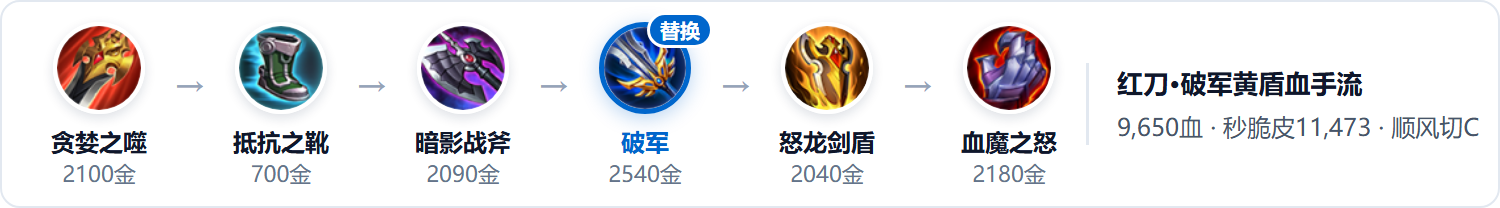
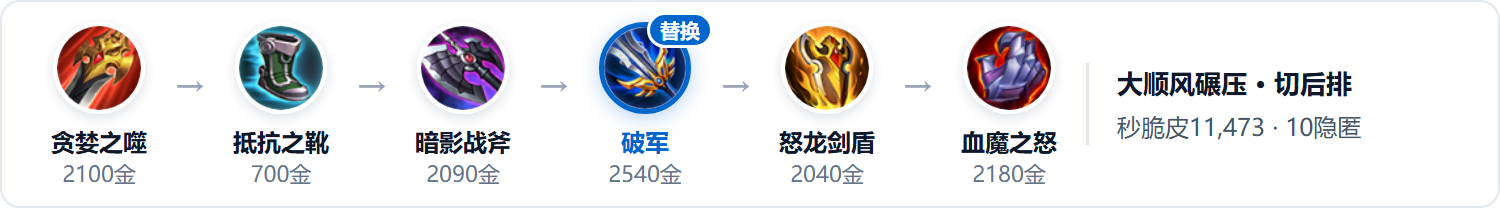
docs(guides): humanize Zhaoyun S45 guide and update dragon skin cover

Changed region(s): [[0.736, 0.5481, 1.0, 0.6923], [0.736, 0.3462, 0.92, 0.4615]]

diff --git a/docs/guides/zhaoyun_jungle_guide.md b/docs/guides/zhaoyun_jungle_guide.md
@@ -1,111 +1,113 @@
-# 王者荣耀 S45 赛季打野赵云 · 黄盾前置血手跨档闭环与六套动态出装（完整真值数据版）
+# 王者荣耀S45赵云11.17更新攻略：调整影响、出装优先级与各阵容配装
 
-> **版本基线**：S45 正式服 11.17 调整同步版（`config/items_ground_truth.json` / `config/hero_skills_data.json` / `config/hero_base_stats.py` / `config/hero_arcana_data.py` 本地真值核验）
-> **核心结论**：11 月 17 日正式服将赵云一技能冷却缩至 7.5~6 秒、二技能回血调为 1% 额外生命、三技能伤害微调至 450~900（+135%额外物攻）。二技能回血下调后，黑切后第 4 件提前做出黄盾可借重创被动将单组野怪回血翻倍至 1,110 并加速二档攒永久白盾，第 5 件连出血手即可在龙团提前解锁扣血跨档送一技能闭环；而 0 生命的冰脉不再全对局硬绑，仅作让蓝顺风抓单分支。
+> **版本基线**：S45 正式服 11.17 调整同步版（基于 `config/` 本地真值核验）
+> **核心思路**：11 月 17 日正式服对赵云做了三处调整：1 技能冷却缩到 7.5~6 秒更好留人，2 技能回血改成 70~140（+1% 额外生命），3 技能伤害微调到 450~900（+135% 额外物攻）。改完之后，纯输出装刷野回血和攒被动白盾会变慢，做完黑切优先补黄盾（怒龙剑盾）撑血量和续航，再配血手（血魔之怒）半血打反手，最后按对面阵容选择爆裂、冰甲、永夜或碎星锤最顺手。
 
-![赵云 S45 出装攻略头图](assets/zhaoyun_cover_16x9.jpg)
-
----
-
-## PART 01 · 裸装基线与 11.17 调整后龙鸣三档、惊雷减冷却真值
-
-**Lv1→15 裸装面板、5%/10%/20% 三档免伤跨档送位移、二技能 1% 额外生命回血与空大返 CD**
-
-- 裸装基线与被动【龙鸣】三档免伤规则：赵云 Lv1→Lv15 裸装生命 3,468→7,150，物攻 175→379，物防 150→395，法防 75→166，基础移速 385（刺客档），攻速成长 +1.5%/级。生命处于 >70% / 40%~70% / ≤40% 分别获得 5% / 10% / 20% 免伤；每当生命档位跨越时立即额外存储一次一技能，且溢出当前档位上限的回复量会转化为永久护盾。
-- 一技能【惊雷之龙】（CD 7.5s→6s）与二技能【破云之龙】（CD 6s→5s）调整影响：11 月 17 日更新将一技能冷却缩短 0.5 秒，冲锋造成 350~700（+120%额外物攻）物伤，强化普攻额外造成 120~240（+40%额外物攻）物伤并附带 25%~50% 持续 2 秒减速，自身黏人留人能力明显增强；二技能连刺 5 枪每枪造成 210~420（+65%额外物攻）物伤，回血由 1.5% 下调为 70~140（+1%额外生命，每枪递减 8%），纯靠自身刺野续航与攒白盾变慢，亟需装备被动接力续航。
-- 三技能【天翔之龙】（CD 20s / 18s / 16s）与血手跨档伏笔：跃击造成 450 / 675 / 900（+135%额外物攻）物伤、中心 1 秒击飞并挂 5 秒感电，未命中英雄直接返还 50% 冷却。血手主动扣除 30% 当前生命换取 40% 最大生命真实白盾，在 55%~65% 血线按下即可主动压进 ≤40% 最高 20% 免伤档位白拿一发一技能，近四千点白盾全程享受双抗与 20% 免伤折算。
+![赵云 11.17 更新出装攻略头图](assets/zhaoyun_cover_16x9.jpg)
 
 ---
 
-## PART 02 · 黄盾前置第 4 件逻辑与冰脉去绑定实测对比
+## PART 01 · 先看 11.17 调整对赵云的影响
 
-**为什么黑切后提前出黄盾接血手，以及为什么冰脉不再是全对局必出装**
+**1 技能更粘人，但 2 技能回血和 3 技能伤害微调后更吃血量与拉扯**
 
-- 黄盾提前到第 4 件（但不提前到第 3 件）的真值账本：第 3 件若跳过黑切裸出黄盾（3,440 金），仅靠百穿铭文 100 物穿，Lv9 全套秒脆皮跌至 4,170（低于 4,800 脆皮基准血线，比同预算黑切少打 1,089 点），3 秒刷野伤害（5,081）也慢于黑切（5,433）。而在黑切之后第 4 件立刻做黄盾（Lv11 共 5,530 金），既有 254.3 物穿保住 5,955 脆皮斩杀线，又能靠黄盾【重创】（每 2.5 秒对野怪/兵线造成 7% 最大生命物伤并回 50% 血）把单组野怪总回血从 525 翻倍至 1,110，彻底填平二技能回血下调缺口，路过野区两枪即可攒出二档永久白盾；第 5 件连出血手还能在 10~12 分钟龙团提前一格完成跨档闭环。
-- 为什么冰脉不再全对局硬绑（退居 20% 让蓝顺风抓单分支）：① 正式服冰脉（+300物防 +55物攻 +10%冷却）提供 0 最大生命，对黄盾重创/神力、血手 40% 白盾与二技能回血三项生命挂钩机制加成为零；② 冰脉强击减速仅持续 0.5 秒（15%~30%），与赵云一技能自带 2 秒 50% 强普减速重叠度高；③ 满层红刀（12.5%）+ 黑切（10%）拿蓝已满 40% 冷却（冰脉 10% 冷却溢出），无蓝时满级一技能也仅差 0.6 秒（4.65s vs 4.05s）。因此 80% 常规局用爆裂、永夜、破军或碎星锤替代冰脉，坦度或终结效率均更优。
+- 1 技能【惊雷之龙】冷却缩短 0.5 秒（8~6.5 秒 → 7.5~6 秒）：冲锋转得更快，加上强化普攻额外造成 120~240（+40% 额外物攻）物理伤害和 25%~50% 减速持续 2 秒，自己留人和追人就已经很够用了。
+- 2 技能【破云之龙】回血下调（1.5% → 1% 额外生命）：连刺 5 枪每枪回复 70~140（+1% 额外生命，后续每枪降低 8%）。纯出输出装时刷野回血变慢，被动白盾也攒得更慢，需要带血量的装备帮着补回续航。
+- 3 技能【天翔之龙】伤害微调（480~960 +145%额外物攻 → 450~900 +135%额外物攻）：大招中心击飞 1 秒并挂 5 秒感电，没打中英雄返还 50% 冷却。一套直接秒满血脆皮稍微吃力一点，更靠多打一轮 1 技能和被动反打。
+- 被动【龙鸣】与基础属性：赵云 Lv1→Lv15 裸装生命 3,468→7,150、物攻 175→379、物防 150→395、法防 75→166、基础移速 385。血量处于 >70% / 40%~70% / ≤40% 分别获得 5% / 10% / 20% 免伤；血量跨过档位会立刻白送一次 1 技能，溢出当前档位上限的回复会转成永久白盾。
 
-### 表1：打野赵云核心顺序与同槽位单件实测对比表（含30铭文折算）
+---
 
-| 对比维度与阶段 | 方案 A（推荐路线） | 方案 B（对照/旧惯性套） | 实测关键差值与龙鸣三档机制依据 |
+## PART 02 · 针对改动，出装优先级怎么调
+
+**前期先出黑切不变，后面黄盾、血手优先出，冰脉与破军看局势选**
+
+- 前期还是得先出黑切，先别裸黄盾：只靠百穿铭文前期伤害不够，9 级时先出黑切一套打脆皮能到 5,259（3 秒刷野 5,433），直接裸黄盾只有 4,170（少打 1,089，刷野也更慢）。做完黑切先停在 15 层小红刀，直接优先出黄盾（5,530 金，比先升大红刀省 110 金，物理抗伤高 +2,053、法术抗伤高 +3,123），靠黄盾重创把单组野怪回血从 525 翻倍到 1,110，路过野区刮两枪就能攒出永久白盾。
+- 黄盾之后优先补血手，不再每把无脑先出冰脉：团战在半血左右（55%~65%）主动按血手，扣掉 30% 当前生命换 40% 最大生命白盾，顺势压进 40% 血线拿满 20% 免伤并白送一次 1 技能。而冰脉（+300 物防 +55 物攻 +10% 冷却）提供 0 生命值，1 技能自己又够粘人、拿蓝冷却还会溢出（25 层红刀 12.5% + 黑切 10% + 蓝 Buff 20% 已满 40%），所以平时不用硬绑冰脉，只在常让蓝缺冷却时出。
+- 对面硬控特别多时，可以把爆裂换成冰甲（冰霜冲击）：冰甲（2,030 金，+150 物防 +950 生命 +7.5% 冷却）自带 10% 韧性（配抵抗鞋合计 35% 韧性）和受硬控触发 10% 最大生命护盾（5 秒，CD 15 秒），满级 10,600 血、危机态抗伤 26,199。注意冰甲和血手都是主动装，局内快捷主动键只能留给血手，主要吃冰甲的韧性和受控护盾被动（会少爆裂的 10% 移速增伤，打脆皮少 914）。
+
+### 表1：赵云关键装备顺序与单件实测对比（含30铭文）
+
+| 对比场景 | 推荐出装思路 | 常见对照做法 | 实测差值与实战原因 |
 | :--- | :--- | :--- | :--- |
-| Lv9 第3件铁律<br>(黑切 vs 裸黄盾) | **先出暗影战斧** (3,490金)<br>秒C 5,259 / 3s刷野 5,433 | 提前第3件黄盾 (3,440金)<br>秒C 4,170 / 3s刷野 5,081 | 裸黄盾仅 100 物穿跌破 4,800 脆皮斩杀线；先黑切多打 +1,089 且刷野更快 |
-| 15级常驻底座对比<br>(爆裂 vs 冰脉) | **黄盾+血手+爆裂** (方案①)<br>10,650血 / 物抗 24,615 / 法抗 18,933 | **冰脉+黄盾+血手** (方案②)<br>9,650血 / 物抗 23,573 / 法抗 17,132 | 冰脉 0 生命且拿蓝冷却溢出；爆裂多 1,000 血撑厚白盾，物抗高 +1,042、法抗高 +1,801 |
-| 15级切C容错底线<br>(黄盾破军 vs 旧脆皮) | **破军+黄盾+血手** (方案③)<br>416法防 / 法抗 17,244 / 秒C 11,473 | 旧式冰脉+破军+血手套<br>266法防 / 法抗 13,610 / 8,550血 | 旧套 266 法防吃法师不明 AOE 即漏光白盾；绑黄盾法抗高 +3,634 守住三档底线 |
-| 15级续航与反法对策<br>(永夜 vs 破魔刀) | **黄盾+血手+永夜** (方案⑥)<br>团战回血 1,253 / 危机抗伤 26,158 | **黄盾+破魔刀+血手** (方案⑤)<br>816法防 / 法抗 23,377 / 秒C 9,681 | 均逆风持久战选永夜补回二技能续航；遇诸葛/露娜超神或电刀射选破魔刀反杀 |
+| 前期先出黑切 vs 裸黄盾<br>(9级经济对比) | **先出黑切** (3,490金)<br>打脆皮 5,259 / 3秒刷野 5,433 | 先出黄盾 (3,440金)<br>打脆皮 4,170 / 3秒刷野 5,081 | 先出黑切多打 +1,089 爆发且刷野更快，不缺抓人伤害 |
+| 做完黑切后停小红刀出黄盾<br>(11级经济对比) | **停小红刀先出黄盾** (5,530金)<br>物理抗伤 13,901 / 单组野回 1,110 | 先升大红刀再补防装 (5,640金)<br>物理抗伤 11,848 / 单组野回 544 | 省 110 金的同时刷野回血翻倍，路过野区就能攒白盾 |
+| 常规补爆裂 vs 常让蓝补冰脉<br>(15级满装对比) | **黄盾+血手+爆裂**<br>10,650血 / 物理抗伤 24,615 / 法术抗伤 18,933 | **冰脉+黄盾+血手**<br>9,650血 / 物理抗伤 23,573 / 法术抗伤 17,132 | 爆裂多 1,000 血撑厚白盾，拿蓝满 40% 冷却；让蓝缺冷却再出冰脉 |
+| 硬控极多补冰甲 vs 爆裂<br>(15级满装对比) | **黄盾+血手+冰甲**<br>10,600血 / 35%韧性 / 危机抗伤 26,199 | **黄盾+血手+爆裂**<br>10,650血 / 25%韧性 / 打脆皮 10,087 | 冰甲多 10% 韧性与受控护盾（主动键留给血手）；少爆裂移速增伤 |
 
 ---
 
-## PART 03 · 六套实战满装与专属 30 铭文总属性账本
+## PART 03 · 不同敌方阵容的出装与铭文匹配
 
-**五件黄盾血手前置底座 + 第 6 件六向变阵，及两套专属 30 铭文精算**
+**不靠一套出装打到底，看对面阵容选对应的 6 神装与 30 铭文**
 
-- 两套专属五级铭文精确总属性：① 爆裂、冰脉、破魔刀、永夜四套持续拉扯流配『10异变 10鹰眼 7隐匿 3狩猎』（总计 +40.2物攻 +100物穿 +3%攻速 +10%移速），3% 攻速配合等级成长让 13A2A 两次强普收枪利落不卡手；② 破军与碎星锤两套重技能穿透流配『10异变 10鹰眼 10隐匿』（总计 +45物攻 +100物穿 +10%移速），拉满一、三技能额外物攻收益。
-- 成型槽位规律：除『全程让蓝顺风抓单（方案②第 4 件冰脉）』与『大顺风碾压切 C（方案③第 4 件破军）』外，其余四套均以『小红刀 → 抵抗鞋 → 黑切 → 黄盾 → 大红刀 → 血手』提前完成核心闭环（法刺超神时方案⑤可在黄盾后先合破魔刀），最后第 6 件按阵容在爆裂、碎星锤、永夜（纯远程消耗可换魔女）间落位。
+- 两套专属五级铭文怎么选：① 爆裂、冰甲、永夜、破魔刀、冰脉偏持续拉扯的对局，带『10异变 10鹰眼 7隐匿 3狩猎』（总计 +40.2物攻 +100物穿 +3%攻速 +10%移速），3% 攻速配合等级成长让 13A2A 两次强化普攻收枪更顺滑；② 破军和碎星锤偏技能爆发或打肉的对局，带『10异变 10鹰眼 10隐匿』（总计 +45物攻 +100物穿 +10%移速），拉满一、三技能额外物攻加成。
+- 看阵容选装规律：先出小红刀 → 抵抗鞋 → 黑切，之后大多数对局优先做黄盾、升满红刀接血手（法刺超神可先做破魔刀），最后一件按对面阵容选爆裂（均衡物理）、冰甲（连环硬控极多）、永夜/魔女（多法师）或碎星锤（双前排重坦）；只有大顺风碾压或单排常让蓝时，才在黑切后先做破军或冰脉。
 
-### 表2：打野赵云 S45 六套实战满装实测对比总表（15级25层含30铭文）
+### 表2：打野赵云 S45 不同阵容满级神装与铭文实测对比（15级25层）
 
-| 评估维度 | ① 黄盾血手爆裂 | ② 冰脉黄盾血手 | ③ 破军黄盾血手 | ④ 黄盾血手碎星 | ⑤ 黄盾破魔血手 | ⑥ 黄盾血手永夜 |
+| 对比项 | ① 常规均衡(爆裂) | ② 常让蓝(冰脉) | ③ 大顺风(破军) | ④ 双重坦(碎星锤) | ⑤ 法刺猛(破魔刀) | ⑥ 逆风多法(永夜) |
 | :--- | :--- | :--- | :--- | :--- | :--- | :--- |
 | 成装总价 | 11,160金 | 11,170金 | 11,650金 | 11,190金 | 11,170金 | 11,130金 |
-| 核心第3~6件顺序 | 黑切+黄盾+血手+爆裂 | 黑切+冰脉+黄盾+血手 | 黑切+破军+黄盾+血手 | 黑切+黄盾+血手+碎星锤 | 黑切+黄盾+破魔刀+血手 | 黑切+黄盾+血手+永夜 |
+| 核心出装顺序 | 黑切+黄盾+血手+爆裂 | 黑切+冰脉+黄盾+血手 | 黑切+破军+黄盾+血手 | 黑切+黄盾+血手+碎星锤 | 黑切+黄盾+破魔刀+血手 | 黑切+黄盾+血手+永夜 |
 | 专属30铭文 | 10异变 10鹰眼 7隐 3狩 | 10异变 10鹰眼 7隐 3狩 | 10异变 10鹰眼 10隐匿 | 10异变 10鹰眼 10隐匿 | 10异变 10鹰眼 7隐 3狩 | 10异变 10鹰眼 7隐 3狩 |
 | 生命 / 物理攻击 | 10,650 / 774 | 9,650 / 794 | 9,650 / 894 | 10,350 / 834 | 10,350 / 829 | 10,550 / 739 |
 | 物防 / 法防 | 805 / 416 | 895 / 416 | 595 / 416 | 595 / 416 | 595 / 816 | 685 / 596 |
 | 无蓝 / 拿蓝冷却 | 22.5% / 40% | 32.5% / 40% | 27.5% / 40% | 22.5% / 40% | 22.5% / 40% | 22.5% / 40% |
 | 物理 / 法术抗伤 | 24,615 / 18,933 | 23,573 / 17,132 | 19,366 / 17,244 | 20,756 / 18,482 | 20,756 / 23,377 | 23,709 / 22,133 |
-| 秒脆皮 / 打重坦 | 10,087 / 4,901 | 10,374 / 4,964 | 11,473 / 5,492 | 10,178 / 5,681 | 9,681 / 4,636 | 9,126 / 4,374 |
+| 打脆皮 / 打重坦 | 10,087 / 4,901 | 10,374 / 4,964 | 11,473 / 5,492 | 10,178 / 5,681 | 9,681 / 4,636 | 9,126 / 4,374 |
 | 团战总回复量 | 572 | 534 | 534 | 561 | 561 | 1,253 |
 
-### 六套实战方案逐套适用场景与优劣势拆解
+### 各阵容神装方案拆解
 
-- **方案 ① · 常规团战/控蓝万血首选底座 · 红刀·黄盾血手爆裂流**（`11,160 金` ｜ `10,650血 ｜ 805物防 / 416法防 ｜ 22.5%冷却 ｜ 秒脆皮 10,087`）
-  - **优势**：第 4 件提前出黄盾补平二技能续航缺口，第 5 件接血手在中期龙团提前成型跨档闭环；满级 10,650 高血量撑厚白盾与黄盾重创，叠满爆裂 10% 增伤移速，拿蓝满 40% 冷却。
-  - **注意**：无蓝期冷却 22.5%（满级一技能 4.65 秒），留人主要靠一技能 2 秒 50% 强普减速与大招内圈击飞。
-  - **适用对局**：覆盖 80% 常规团战、己方能控蓝或野区频繁碰撞的首选万血底座。
-- **方案 ② · 单排全程让蓝/顺风抓单分支 · 红刀·冰脉黄盾血手流**（`11,170 金` ｜ `9,650血 ｜ 895物防 / 416法防 ｜ 32.5%冷却 ｜ 秒脆皮 10,374`）
-  - **优势**：全程让蓝时靠无蓝 32.5% 冷却将满级大招压至 10.8 秒，13A2A 两次强击补足秒脆皮 10,374 与 895 高物防。
-  - **注意**：冰脉 0 最大生命不加成黄盾与血手，且拿蓝时 10% 冷却溢出，血手闭环推迟到第 6 件。
-  - **适用对局**：单排全程让蓝给工具人/法核中单，且前中期顺风需高频抓落单物理边射的对局。
-- **方案 ③ · 顺风切C高爆发收割 · 红刀·破军黄盾血手流**（`11,650 金` ｜ `9,650血 ｜ 595物防 / 416法防 ｜ 27.5%冷却 ｜ 秒脆皮 11,473`）
-  - **优势**：补回大招下调的基础与加成伤害，秒脆皮爆发拉至 11,473（无蓝 27.5% 冷却），同时保留黄盾与血手守住 9,650 血与 416 法防，杜绝旧纯输出套 266 法防进场蒸发。
-  - **注意**：破军 2,540 金合成真空期较长，均势局建议先出黄盾血手再在第 6 件补破军。
-  - **适用对局**：己方顺风经济领先、需单人一套瞬秒敌方无位移双 C 的滚雪球对局。
-- **方案 ④ · 双前排重坦高穿破甲 · 红刀·黄盾血手碎星流**（`11,190 金` ｜ `10,350血 ｜ 595物防 / 416法防 ｜ 22.5%冷却 ｜ 秒脆皮 10,178`）
-  - **优势**：先用黄盾血手稳住 10,350 血量底座，再叠 280 固穿与碎星锤 30% 物穿（附 +7.5% 移速）将打坦净伤提至 5,681 全系最高。
-  - **注意**：物防 595 偏中等，团战切忌正面硬吃敌方满装射手持续平 A。
-  - **适用对局**：敌方白起、项羽、张飞等双前排重坦成型，需兼顾打前排与绕后切 C 的对局。
-- **方案 ⑤ · 法刺超神/电刀混伤反杀 · 红刀·黄盾破魔刀血手流**（`11,170 金` ｜ `10,350血 ｜ 595物防 / 816法防 ｜ 22.5%冷却 ｜ 秒脆皮 9,681`）
-  - **优势**：高物攻直接吃满破魔刀 250 被动法防（总法防达 816，法术抗伤 23,377），顶着法刺爆发与电刀法球反刺收割。
-  - **注意**：面对纯物理菜刀阵容时破魔刀法防收益闲置，应切回方案①爆裂甲。
-  - **适用对局**：敌方诸葛亮、露娜、火舞早早起飞，或狄仁杰、公孙离出电刀法球混伤的对局。
-- **方案 ⑥ · 均逆风持久战/双法核抗消耗 · 红刀·黄盾血手永夜流**（`11,130 金` ｜ `10,550血 ｜ 685物防 / 596法防 ｜ 22.5%冷却 ｜ 秒脆皮 9,126`）
-  - **优势**：10,550 血配永夜受击回血将团战总回复拉升至 1,253（附 +7.5% 移速与 50% 减速抗性），危机态抗伤高达 26,158，彻底补回二技能回血削弱缺口。
-  - **注意**：秒脆皮 9,126 主打多轮进出拉扯；若遇干将、沈梦溪纯远程无接触消耗可将永夜平替为魔女保一档位。
-  - **适用对局**：己方均逆风打持久团战，或敌方多法伤、高爆发集火需反复七进七出的对局。
+- **方案 ① · 对面常规均衡 · 偏物理输出 · 红刀·黄盾血手爆裂流**（`11,160 金` ｜ `10,650血 ｜ 805物防 / 416法防 ｜ 22.5%冷却 ｜ 秒脆皮 10,087`）
+  - **优势**：做完黑切优先出黄盾补足血量和刷野续航，接着补血手在半血时直接压进 40% 血线吃满 20% 免伤并多拿一次 1 技能；满级 10,650 血配合爆裂叠满 10% 增伤移速，拿蓝满 40% 冷却。
+  - **注意**：无蓝时冷却 22.5%（满级 1 技能 4.65 秒），留人主要靠 1 技能自带的 2 秒 50% 减速和大招击飞。如果对面连环硬控特别多，可以把最后的爆裂换成冰甲（冰霜冲击），吃 10% 韧性与受控护盾，快捷主动键依然留给血手。
+  - **适用**：对面阵容比较均衡、物理爆发较多、自己能控蓝的常规对局。
+- **方案 ② · 单排经常让蓝 / 抓单缺冷却 · 红刀·冰脉黄盾血手流**（`11,170 金` ｜ `9,650血 ｜ 895物防 / 416法防 ｜ 32.5%冷却 ｜ 秒脆皮 10,374`）
+  - **优势**：把蓝让给中单时，无蓝 32.5% 冷却能把满级大招压到 10.8 秒，两次强化普攻顺手，打脆皮 10,374、物防 895。
+  - **注意**：冰脉（冰痕之握）不加最大生命，拿蓝时冷却会溢出 10%，且血手需要放到最后出。
+  - **适用**：单排经常把蓝 Buff 让给法核中单，前期顺风需要高频抓单边射的对局。
+- **方案 ③ · 大顺风碾压切后排 · 红刀·破军黄盾血手流**（`11,650 金` ｜ `9,650血 ｜ 595物防 / 416法防 ｜ 27.5%冷却 ｜ 秒脆皮 11,473`）
+  - **优势**：高额物攻补回大招下调后的爆发，一套打脆皮 11,473，后面补黄盾和血手守住 9,650 血和 416 法防，不会一进场就被法师秒。
+  - **注意**：破军（强者破军）2,540 金偏贵，均势局早出容易卡钱，拖慢半肉成型节奏。
+  - **适用**：前期已经大顺风、需要单人一套秒掉对面无位移射手法师的滚雪球对局。
+- **方案 ④ · 对面双前排 / 重坦特别肉 · 红刀·黄盾血手碎星流**（`11,190 金` ｜ `10,350血 ｜ 595物防 / 416法防 ｜ 22.5%冷却 ｜ 秒脆皮 10,178`）
+  - **优势**：先用黄盾和血手撑出 10,350 血量，再补碎星锤 30% 百分比穿甲，打重坦一套 5,681、打脆皮 10,178。
+  - **注意**：物防 595 偏中等，团战别顶着对面满装射手正面站撸吃平 A。
+  - **适用**：对面白起、项羽、张飞这类双前排很肉，既要打前排又要绕后切 C 的对局。
+- **方案 ⑤ · 对面法刺超神 / 电刀混伤 · 红刀·黄盾破魔血手流**（`11,170 金` ｜ `10,350血 ｜ 595物防 / 816法防 ｜ 22.5%冷却 ｜ 秒脆皮 9,681`）
+  - **优势**：高物攻吃满破魔刀 250 点被动法防，总法防直接拉到 816（法术抗伤 23,377），顶着法刺爆发和电刀混伤也能反杀。
+  - **注意**：面对纯物理菜刀阵容时法防属性容易闲置，改回爆裂或冰甲更合适。
+  - **适用**：对面诸葛亮、露娜、不知火舞早早起飞，或狄仁杰、公孙离出电刀打混伤的对局。
+- **方案 ⑥ · 均逆风持久团 / 多法师消耗 · 红刀·黄盾血手永夜流**（`11,130 金` ｜ `10,550血 ｜ 685物防 / 596法防 ｜ 22.5%冷却 ｜ 秒脆皮 9,126`）
+  - **优势**：10,550 血配永夜受击回血，团战总回复达到 1,253，还带 50% 减速抗性，能反复进出打拉扯。
+  - **注意**：爆发略低于输出向出装，遇到干将莫邪、沈梦溪纯远程不接触的消耗阵容可把永夜换成魔女。
+  - **适用**：己方均逆风要接持久团，或者对面多法师集火需要站住反复拉扯的对局。
 
 ![红刀·黄盾血手爆裂流](assets/zhaoyun_strip_02_baolie_blood.png)
 ![红刀·冰脉黄盾血手流](assets/zhaoyun_strip_01_ice_blood.png)
 ![红刀·破军黄盾血手流](assets/zhaoyun_strip_03_pojun_blood.png)
 ![红刀·黄盾血手碎星流](assets/zhaoyun_strip_04_starbreaker.png)
-![红刀·黄盾破魔刀血手流](assets/zhaoyun_strip_05_pomo_blood.png)
+![红刀·黄盾破魔血手流](assets/zhaoyun_strip_05_pomo_blood.png)
 ![红刀·黄盾血手永夜流](assets/zhaoyun_strip_06_yongye_blood.png)
 
 ---
 
-## PART 04 · 赵云专属打法思路、分期预算分水岭与 18 分钟换装
+## PART 04 · 1~12 格局内备战与实战节奏
 
-**4级陨星发力节点、黄盾重创双回血攒白盾、Lv11/Lv13 提前闭环账本与保命三换**
+**4 级出陨星再抓边、出黄盾路过野区攒白盾、大后期保留抵抗鞋用血手原地换复活甲**
 
-- 专属核心打法思路（重创攒盾与血手跨档）：① 1~3 级稳刷保陨星节点——未点大招前不盲目反野硬拼，4 级做出陨星握住斩杀线再抓边控龙；② 黄盾成型后二档路过野怪速攒白盾——二技能调为 1% 额外生命后，做出黄盾路过野怪或兵线打一发 1A2，触发重创+二技能双回血（单组回血 1,110），溢出部分瞬间挂成永久白盾，带着 10% 免伤+厚白盾进场；③ 侧翼切入半血按血手主动压进 ≤40% 三档白拿一技能追击收割，残血脱身果断向墙外空放三技能（返还 50% 冷却仅约 5~6 秒）。
-- 12 格备战预设与 11 级分水岭：第 1~7 格依次预设『追击刀锋 → 抵抗之靴 → 暗影战斧 → 怒龙剑盾 → 贪婪之噬 → 血魔之怒 → 暴烈之甲』，后 5 格备好永夜、破魔刀、冰脉、复活甲与名刀。做完黑切（约 5 分钟）查局势：常规/控蓝/均逆风直接停 15 层小红刀第 4 件合黄盾，满 15 层再升红刀接血手；仅全程让蓝顺风抓单才手动点选冰脉。
-- 18 分钟保命三连换：团战开启血手打完赠送的一技能进入 75 秒冷却后，原格秒换复活甲 → 倒地起身秒换名刀（1.0 秒无敌锁死 ≤40% 最高 20% 免伤档位反刺收尾）。
+- 局内 3 个顺手节奏：① 4 级前稳刷别硬拼，做出抵抗鞋和 760 金陨星伤害就够，再去抓边控龙；② 黄盾做出来之后，打团前路过野怪或兵线刮一发 1A2，触发黄盾+2 技能双回血（单组 1,110），溢出部分会自动存成永久白盾再进场；③ 半血开血手打完送的 1 技能反刺收割，残血撤退时往墙外空放 3 技能穿墙（没命中返还一半冷却，后期只要 5~6 秒）。
+- 1~12 格局内备战预设：前 7 格按『追击刀锋 → 抵抗之靴 → 暗影战斧 → 怒龙剑盾 → 贪婪之噬 → 血魔之怒 → 暴烈之甲』放好，后 5 格放『永夜守护、冰霜冲击（冰甲）、破魔刀/碎星锤、冰痕之握、贤者的庇护（复活甲）』；如果大后期要换名刀，先开完血手打完技能进入 75 秒冷却后，留着抵抗鞋别卖，直接用血手原地换复活甲，倒地起身再换名刀反刺。
 
-### 表3：打野赵云前中后期（Lv11 / Lv13 / 18分钟）预算分水岭实测表
+### 表3：打野赵云中后期出装节点实测对比
 
-| 阶段与经济预算 | 推荐前置闭环方案 | 旧常序对照方案 | 实测抗伤续航差值与调整后机制依据 |
+| 阶段与经济 | 推荐做法 | 常见对照做法 | 实测差值与理由 |
 | :--- | :--- | :--- | :--- |
-| Lv11 第4件常规分水岭<br>(约5,530~5,640金) | **停小红刀先合黄盾** (5,530金)<br>物抗 13,901 / 法抗 12,660 / 单组野回 1,110 | 先升大红刀+护手 (5,640金)<br>物抗 11,848 / 法抗 9,537 / 单组野回 544 | 省 110 金物抗高 +2,053、法抗高 +3,123，重创令刷野回血翻倍且保住 5,955 秒 C 线 |
-| Lv11 让蓝/反法特化<br>(约5,550金/15层) | **法刺起飞合破魔刀** (5,550金)<br>法抗 14,211 / 秒C 6,113 | 让蓝顺风合冰痕之握 (5,550金)<br>物抗 13,237 / 20%冷却 / 秒C 6,611 | 诸葛/露娜超神第 4 件直奔破魔刀拉满 640 法防；冰脉仅在全程让蓝物理顺风抓单时出 |
-| Lv13 第5件龙团闭环<br>(约8,990~9,110金) | **黄盾+血手提前闭环** (9,110金)<br>危机抗伤 20,309 / 法抗 16,813 / 秒C 8,921 | 旧常序冰脉+黄盾 (8,990金)<br>危机抗伤 16,256 / 法抗 13,022 / 秒C 8,228 | 10~12 分钟主宰团提前一格解锁血手扣血跨档送一技能，危机抗伤高 +4,053、秒 C 高 +693 |
+| 中期 5,530~5,640 金<br>(做完黑切后) | **停小红刀先出黄盾** (5,530金)<br>物理抗伤 13,901 / 单组野回 1,110 | 先升大红刀+小护手 (5,640金)<br>物理抗伤 11,848 / 单组野回 544 | 省 110 金的同时双抗高出 +2,053/+3,123，刷野回血翻倍 |
+| 中期 5,550 金<br>(对面法师猛 vs 让蓝) | **法刺起飞先出破魔刀** (5,550金)<br>法术抗伤 14,211 / 打脆皮 6,113 | 常让蓝先出冰脉 (5,550金)<br>物理抗伤 13,237 / 20%冷却 / 打脆皮 6,611 | 诸葛亮/露娜超神优先破魔刀拉高法防；让蓝抓单才选冰脉 |
+| 中后期 8,990~9,110 金<br>(10分钟龙团) | **黄盾+血手先成型** (9,110金)<br>危机抗伤 20,309 / 法术抗伤 16,813 | 冰脉+黄盾组合 (8,990金)<br>危机抗伤 16,256 / 法术抗伤 13,022 | 10~12 分钟龙团提前开出血手压血拿 20% 免伤，危机抗伤高 +4,053 |
 
-![打野赵云 1~12 格备战黄盾前置闭环路线](assets/zhaoyun_strip_07_preset12.png)
+![打野赵云 1~12 格局内备战预设顺序](assets/zhaoyun_strip_07_preset12.png)
+
